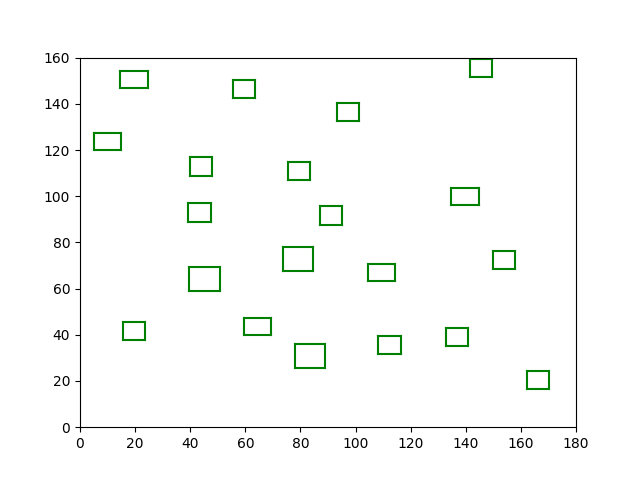
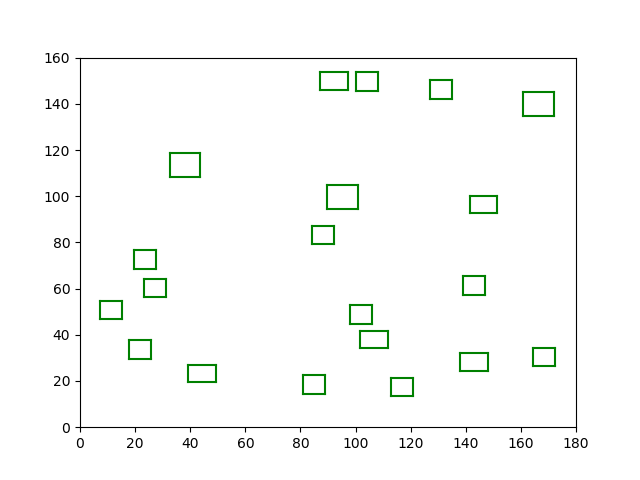
Begin simulated annealing, correctie huizen plaatsen.

diff --git a/Algorithms/sa_hillclimber.py b/Algorithms/sa_hillclimber.py
@@ -1,0 +1,149 @@
+from __import__ import *
+
+import numpy
+
+
+
+def scatterplot(ah_map, name, directory):
+
+	data = []
+
+	for i in range(len(ah_map.houses)):
+
+
+		x = ah_map.houses[i].location['x']
+		y = ah_map.houses[i].location['y']
+
+		colors = (0, 0, 0)
+		area = np.pi * 1
+
+		data.append([ah_map.houses[i].corners['lb']['x'],
+					 ah_map.houses[i].corners['lb']['y']])
+		data.append([ah_map.houses[i].corners['lo']['x'],
+					 ah_map.houses[i].corners['lo']['y']])
+		data.append([ah_map.houses[i].corners['lo']['x'],
+					 ah_map.houses[i].corners['lo']['y']])
+		data.append([ah_map.houses[i].corners['ro']['x'],
+					 ah_map.houses[i].corners['ro']['y']])
+		data.append([ah_map.houses[i].corners['ro']['x'],
+					 ah_map.houses[i].corners['ro']['y']])
+		data.append([ah_map.houses[i].corners['rb']['x'],
+					 ah_map.houses[i].corners['rb']['y']])
+		data.append([ah_map.houses[i].corners['rb']['x'],
+					 ah_map.houses[i].corners['rb']['y']])
+		data.append([ah_map.houses[i].corners['lb']['x'],
+					 ah_map.houses[i].corners['lb']['y']])
+
+	# for i in range(len(ah_map.water)):
+	# 	data.append([ah_map.water[i].corners['lb']['x'],
+	# 				 ah_map.water[i].corners['lb']['y']])
+	# 	data.append([ah_map.water[i].corners['lo']['x'],
+	# 				 ah_map.water[i].corners['lo']['y']])
+	# 	data.append([ah_map.water[i].corners['lo']['x'],
+	# 				 ah_map.water[i].corners['lo']['y']])
+	# 	data.append([ah_map.water[i].corners['ro']['x'],
+	# 				 ah_map.water[i].corners['ro']['y']])
+	# 	data.append([ah_map.water[i].corners['ro']['x'],
+	# 				 ah_map.water[i].corners['ro']['y']])
+	# 	data.append([ah_map.water[i].corners['rb']['x'],
+	# 				 ah_map.water[i].corners['rb']['y']])
+	# 	data.append([ah_map.water[i].corners['rb']['x'],
+	# 				 ah_map.water[i].corners['rb']['y']])
+	# 	data.append([ah_map.water[i].corners['lb']['x'],
+	# 				 ah_map.water[i].corners['lb']['y']])
+
+	axes = plot.gca()
+	axes.set_xlim([0, ah_map.width])
+	axes.set_ylim([0, ah_map.height])
+
+	# for every value in data
+	for i in range(0, len(data) - 1, 2):
+		# define lists
+		plot_array_x = []
+		plot_array_y = []
+
+		# append values in pairs to lists
+		plot_array_x.append(data[i][0])
+		plot_array_x.append(data[i + 1][0])
+		plot_array_y.append(data[i][1])
+		plot_array_y.append(data[i + 1][1])
+
+		# plot each of these pairs seperately
+		plot.plot(plot_array_x, plot_array_y, 'g')
+
+	plot.savefig(name)
+
+	# split = sys.path[1][2]
+	# list_dir = sys.path[0].split(split)
+	# string = ''
+	# for i in range(len(list_dir) - 1):
+	# 	string += list_dir[i]
+	# 	string += split
+    #
+	# plot.savefig(string + 'Results' + split + directory + split + name)
+
+	plot.clf()
+
+	# return plot.show()
+
+# input is empty map, output is value calculated
+def sa_hillclimber(map_charac, tries_random, nr_houses, hill_type):
+	'''Moves, every iteration, houses for optimalization.
+
+	Input arguments:
+	map_charac -- object, map characteristics
+	tries_random -- integer, number of random maps created
+	tries_hill -- integer, number of hillclimbing
+	nr_houses -- integer, nr of houses that are moved with each hillclimb
+	hill_type -- type of hillclimber as integer(0: random, 1:based on freespace)
+	'''
+
+	MIN = 1
+	temp = 10
+	cooling_rate = 0.3
+
+	best_map = best_of_random(map_charac, tries_random)
+	maximum = best_map.calc_score()
+
+	scatterplot(best_map, "best_of_random for tactical", "TESTsa")
+	print("score random:", maximum)
+
+	data = [maximum]
+
+	legelist = []
+
+	i = 0
+
+	while temp > MIN:
+
+		try_map = copy.copy(best_map)
+
+		if (hill_type == 0):
+
+			try_map.random_swap_houses(nr_houses)
+		elif (hill_type == 1):
+
+			try_map.tactical_swap_houses(nr_houses) # swap type....
+			print("iteration", i)
+		else:
+			print("type of hillclimber not specified/recognised.")
+
+		score = try_map.calc_score()
+
+		print("score: ", score)
+
+		legelist.append(score)
+		scatterplot(try_map, "tacticaltestplot" + str(i), "TESTsa")
+		i += 1
+
+		if score > maximum or \
+		   numpy.exp((maximum - score) / temp) > numpy.random.uniform(0, 1):
+			maximum = score
+			best_map = try_map
+
+			data.append(maximum)
+
+		temp *= (1 - cooling_rate)
+
+
+	return {'map' : best_map, 'data' : legelist}

diff --git a/Running_Scripts/test.py b/Running_Scripts/test.py
@@ -3,15 +3,15 @@ from __import__ import *
 
 ah_map = Map(MAP_3)
 
-ah_map.place_house(0, {'x' : 40, 'y' : 30})
-ah_map.place_house(0, {'x' : 30, 'y' : 30})
-ah_map.place_house(0, {'x' : 50, 'y' : 50})
+ah_map.place_house(0, {'x' : 97, 'y' : 149})
+ah_map.place_house(0, {'x' : 100, 'y' : 155})
+# ah_map.place_house(0, {'x' : 50, 'y' : 50})
 
-particle_map = particle_swarm(ah_map, 100)
+# particle_map = particle_swarm(ah_map, 100)
 
-# for house in particle_map['map'].houses:
-# 	house.calc_freespace(ah_map)
-	# print(house.type,'freespace:', house.freespace,
-	# 	  '\n direction:', house.direction)
+for house in ah_map.houses:
+	house.calc_freespace(ah_map)
+	print(house.type,'freespace:', house.freespace,
+		  '\n direction:', house.direction)
 
-scatterplot(ah_map, 'test_new_houses', '')
+scatterplot(ah_map, 'test_new_houses')

diff --git a/Running_Scripts/random_VS_hillclimber.py b/Running_Scripts/random_VS_hillclimber.py
@@ -1,12 +1,12 @@
 
 from __import__ import *
 
-# best_random = best_of_random(MAP_20, 30)
-# print('best random:', best_random.score)
+best_random = best_of_random(MAP_20, 1)
+print('best random:', best_random.score)
 
-best_hill = hillclimber(MAP_60, 10, 100, 1)
-print('hillclimber:', best_hill['map'].score)
-
-# scatterplot(best_random, 'best of random')
-scatterplot(best_hill['map'], 'best of hillclimber 50', '')
-save_results(best_hill['data'], 'hillclimber 60')
+# best_hill = hillclimber(MAP_60, 10, 100, 1)
+# print('hillclimber:', best_hill['map'].score)
+#
+# # scatterplot(best_random, 'best of random')
+# scatterplot(best_hill['map'], 'best of hillclimber 50', '')
+# save_results(best_hill['data'], 'hillclimber 60')

diff --git a/Running_Scripts/__import__.py b/Running_Scripts/__import__.py
@@ -27,6 +27,7 @@ from Algorithms.hillclimber import *
 from Algorithms.tactical_hillclimber import *
 from Algorithms.depthfirst import *
 from Algorithms.particle_swarm import *
+from Algorithms.sa_hillclimber import *
 from Visuals.scatterplot import *
 from Results.txtwriter import *
 

diff --git a/Running_Scripts/tactical_hillclimber_run.py b/Running_Scripts/tactical_hillclimber_run.py
@@ -1,7 +1,7 @@
 
 from __import__ import *
 
-best_hill = hillclimber(MAP_20, 5, 2, 1, 1)
+best_hill = sa_hillclimber(MAP_20, 5, 3, 1)
 
 print('tactical:', best_hill['map'].score)
 save_results(best_hill['data'], "tactical")
